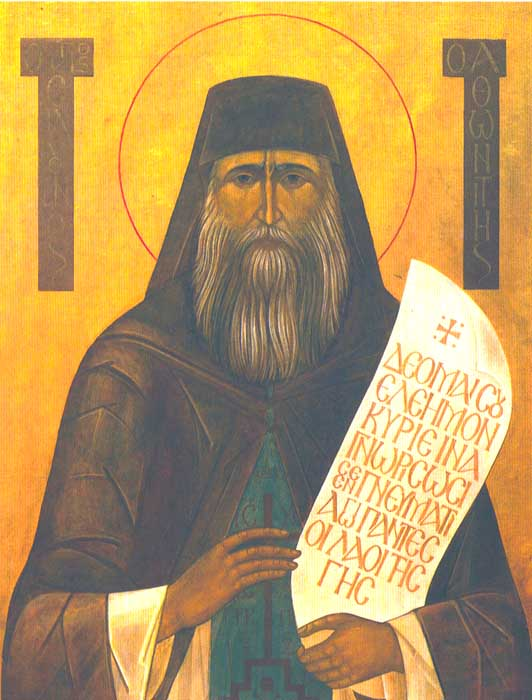
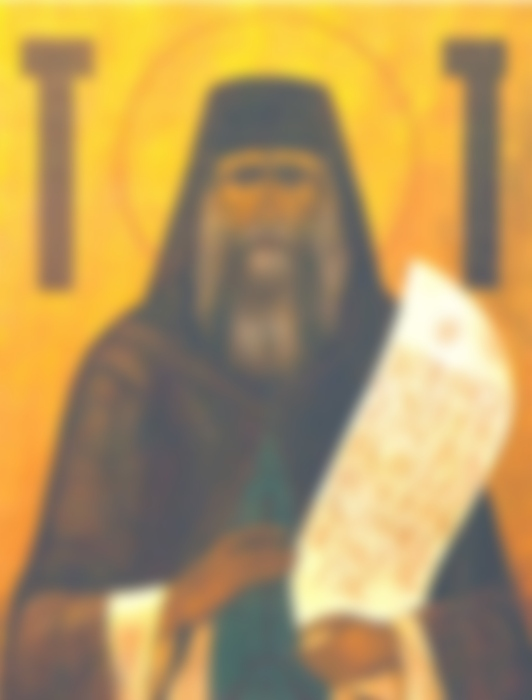
login screen almost done

diff --git a/app/lib/main.dart b/app/lib/main.dart
@@ -33,6 +33,7 @@ class _LoginPageState extends State<LoginPage> {
     return Scaffold(
       body: Stack(
         children: [
+          // Background Image with slight blur
           Container(
             decoration: const BoxDecoration(
               image: DecorationImage(
@@ -52,21 +53,25 @@ class _LoginPageState extends State<LoginPage> {
                 mainAxisAlignment: MainAxisAlignment.center,
                 crossAxisAlignment: CrossAxisAlignment.stretch,
                 children: [
+                  // Larger Athonite Text
                   Text(
                     "Athonite",
                     textAlign: TextAlign.center,
                     style: GoogleFonts.islandMoments(
-                      fontSize: 48,
+                      fontSize: 64, // Increased font size
                       color: const Color(0xFFFFD700),
                     ),
                   ),
                   const SizedBox(height: 50),
+                  // Username Field with Instrument Sans font
                   TextField(
                     decoration: InputDecoration(
                       filled: true,
                       fillColor: const Color(0xEEEDD3).withOpacity(0.26),
                       hintText: "Username",
-                      hintStyle: const TextStyle(color: Color(0xFFCDCBCB)),
+                      hintStyle: GoogleFonts.instrumentSans(
+                        color: const Color(0xFFCDCBCB),
+                      ),
                       border: OutlineInputBorder(
                         borderRadius: BorderRadius.circular(30.0),
                         borderSide: BorderSide.none,
@@ -74,13 +79,16 @@ class _LoginPageState extends State<LoginPage> {
                     ),
                   ),
                   const SizedBox(height: 20),
+                  // Password Field with Instrument Sans font
                   TextField(
                     obscureText: true,
                     decoration: InputDecoration(
                       filled: true,
                       fillColor: const Color(0xEEEDD3).withOpacity(0.26),
                       hintText: "Password",
-                      hintStyle: const TextStyle(color: Color(0xFFCDCBCB)),
+                      hintStyle: GoogleFonts.instrumentSans(
+                        color: const Color(0xFFCDCBCB),
+                      ),
                       border: OutlineInputBorder(
                         borderRadius: BorderRadius.circular(30.0),
                         borderSide: BorderSide.none,
@@ -88,21 +96,25 @@ class _LoginPageState extends State<LoginPage> {
                     ),
                   ),
                   const SizedBox(height: 40),
-                  ElevatedButton(
-                    onPressed: () {},
-                    style: ElevatedButton.styleFrom(
-                      backgroundColor: const Color(0xFFFFD700),
-                      shape: RoundedRectangleBorder(
-                        borderRadius: BorderRadius.circular(30.0),
+                  // Smaller Login Button, centered and with Instrument Sans font
+                  SizedBox(
+                    width: MediaQuery.of(context).size.width * 0.6, // Smaller button width
+                    child: ElevatedButton(
+                      onPressed: () {},
+                      style: ElevatedButton.styleFrom(
+                        backgroundColor: const Color(0xFFFFD700),
+                        shape: RoundedRectangleBorder(
+                          borderRadius: BorderRadius.circular(30.0),
+                        ),
                       ),
-                    ),
-                    child: const Padding(
-                      padding: EdgeInsets.symmetric(vertical: 16.0),
-                      child: Text(
-                        "Login",
-                        style: TextStyle(
-                          color: Colors.black,
-                          fontSize: 18,
+                      child: Padding(
+                        padding: const EdgeInsets.symmetric(vertical: 16.0),
+                        child: Text(
+                          "Login",
+                          style: GoogleFonts.instrumentSans(
+                            color: Colors.black,
+                            fontSize: 16,
+                          ),
                         ),
                       ),
                     ),
